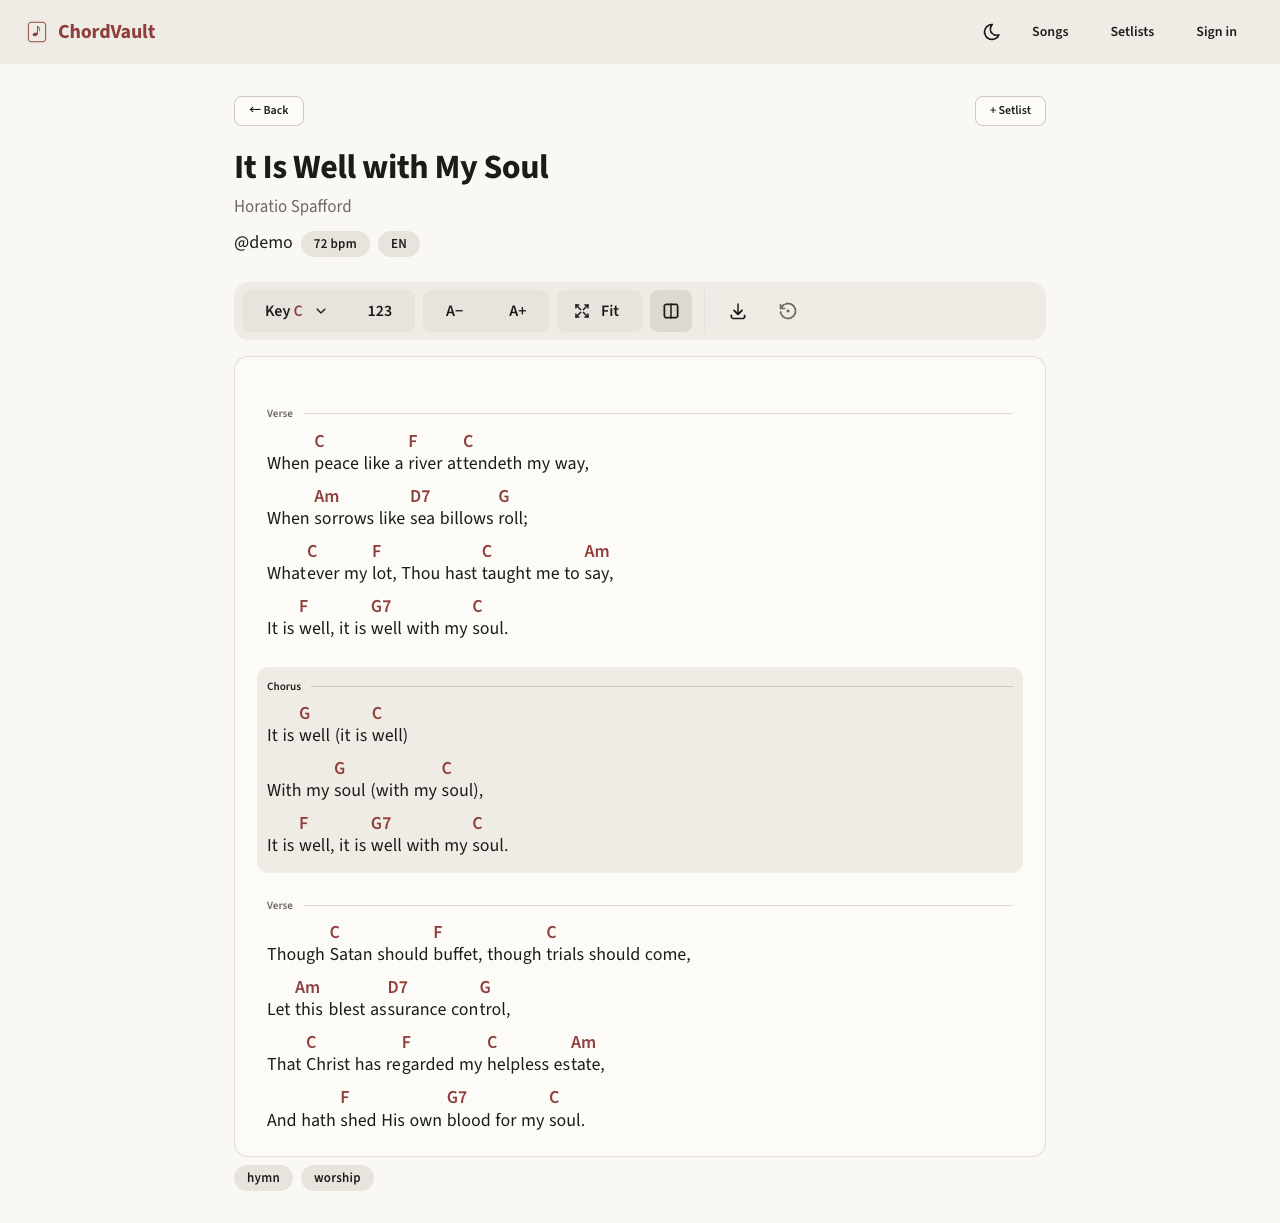
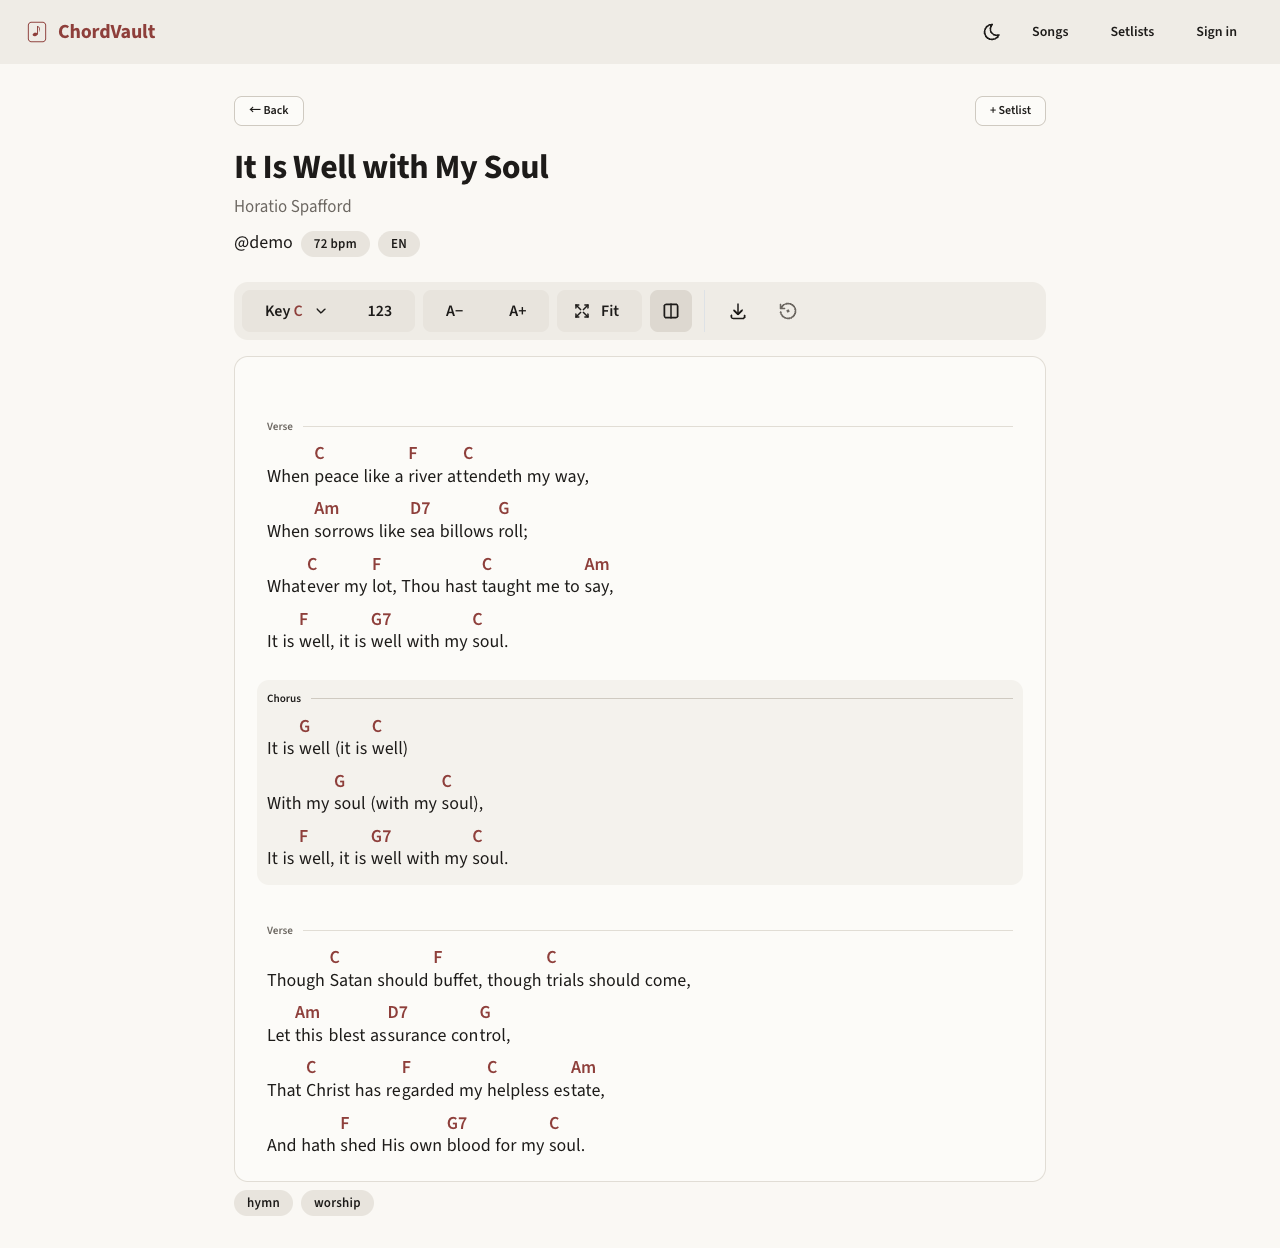
Polish song cards and section spacing for v1.26.2

diff --git a/frontend/src/components/SongCard.tsx b/frontend/src/components/SongCard.tsx
@@ -1,4 +1,4 @@
-import { Badge, Button, VisuallyHidden } from '@mantine/core';
+import { Badge, Button, Group, VisuallyHidden } from '@mantine/core';
 import { IconLock } from '@tabler/icons-react';
 import { KeyBadge } from './KeyBadge';
 import { ListCard } from './ListCard';
@@ -13,33 +13,31 @@ interface SongCardProps {
 }
 
 export function SongCard({ song, isOwner, onClick, onEdit }: SongCardProps) {
+  const hasDetails = Boolean(song.tags || song.language || song.key || song.bpm ||
+    (song.version_count ?? 0) > 1 || song.visibility === 'private' || (isOwner && onEdit));
   return (
     <ListCard
       title={song.title}
       meta={song.artist}
       onClick={onClick}
-      actions={[
-        (song.version_count ?? 0) > 1 && <Badge key="versions" variant="filled">{song.version_count} Versions</Badge>,
-        song.language && <Badge key="language" title={languageName(song.language)}>{song.language.toUpperCase()}</Badge>,
-        song.visibility === 'private' && <Badge key="private" px={8} title="Private"><IconLock size={14} aria-hidden /><VisuallyHidden>Private</VisuallyHidden></Badge>,
-        song.key && <KeyBadge key="key" songKey={song.key} />,
-        song.bpm && <Badge key="bpm">{song.bpm}</Badge>,
-        isOwner && onEdit && (
-          <Button key="edit" variant="default" size="xs"
-            className="btn btn-ghost btn-sm"
-            onClick={(e) => { e.stopPropagation(); onEdit(); }}
-          >
-            Edit
-          </Button>
-        ),
-      ]}
     >
-      {song.tags && (
-        <div className="song-card-tags">
-          {song.tags.split(',').map((tag) => (
-            <Badge key={tag}>{tag}</Badge>
-          ))}
-        </div>
+      {hasDetails && (
+        <Group gap={6} mt={8}>
+          {song.tags && song.tags.split(',').map((tag) => <Badge key={tag}>{tag}</Badge>)}
+          {(song.version_count ?? 0) > 1 && <Badge variant="filled">{song.version_count} Versions</Badge>}
+          {song.language && <Badge title={languageName(song.language)}>{song.language.toUpperCase()}</Badge>}
+          {song.visibility === 'private' && <Badge px={8} title="Private"><IconLock size={14} aria-hidden /><VisuallyHidden>Private</VisuallyHidden></Badge>}
+          {song.key && <KeyBadge songKey={song.key} />}
+          {Boolean(song.bpm) && <Badge>{song.bpm}</Badge>}
+          {isOwner && onEdit && (
+            <Button variant="default" size="xs" ml="auto"
+              className="btn btn-ghost btn-sm"
+              onClick={(e) => { e.stopPropagation(); onEdit(); }}
+            >
+              Edit
+            </Button>
+          )}
+        </Group>
       )}
     </ListCard>
   );

diff --git a/frontend/src/styles/chord-sheet.css b/frontend/src/styles/chord-sheet.css
@@ -29,6 +29,7 @@
 /* Chords sit directly on their lyric; pairs and sections are spaced apart. */
 .chord-sheet .paragraph { margin-bottom: 1.45em; }
 .chord-sheet .paragraph:last-child { margin-bottom: 0; }
+.chord-sheet .paragraph:has(.section-label, h3.label) { padding-top: 0.7em; }
 .chord-sheet .row { display: block; white-space: pre-wrap; line-height: 1.1; margin-bottom: 0.62em; }
 .chord-sheet .row:last-child { margin-bottom: 0; }
 .chord-sheet .column { display: inline-flex; flex-direction: column; vertical-align: top; flex-shrink: 0; margin-right: 1px; }
@@ -85,7 +86,7 @@
 
 /* Chorus: a quiet band, pulled out so lyrics stay aligned with other sections. */
 .chord-sheet .paragraph.chorus {
-  background: var(--band);
+  background: color-mix(in srgb, var(--band) 60%, transparent);
   border-radius: 12px;
   padding: 0.7em 0.55em 0.8em;
   margin-inline: -0.55em;

diff --git a/frontend/src/styles/components.css b/frontend/src/styles/components.css
@@ -48,7 +48,6 @@
 .song-card-meta { font-size: 14px; color: var(--muted); margin-top: 2px; }
 
 /* -- Song Card Tags & BPM ---------------- */
-.song-card-tags { margin-top: 4px; display: flex; flex-wrap: wrap; gap: 4px; }
 .song-view-bpm { margin-top: 6px; }
 .song-view-tags { margin-top: 6px; display: flex; flex-wrap: wrap; gap: 6px; }
 
